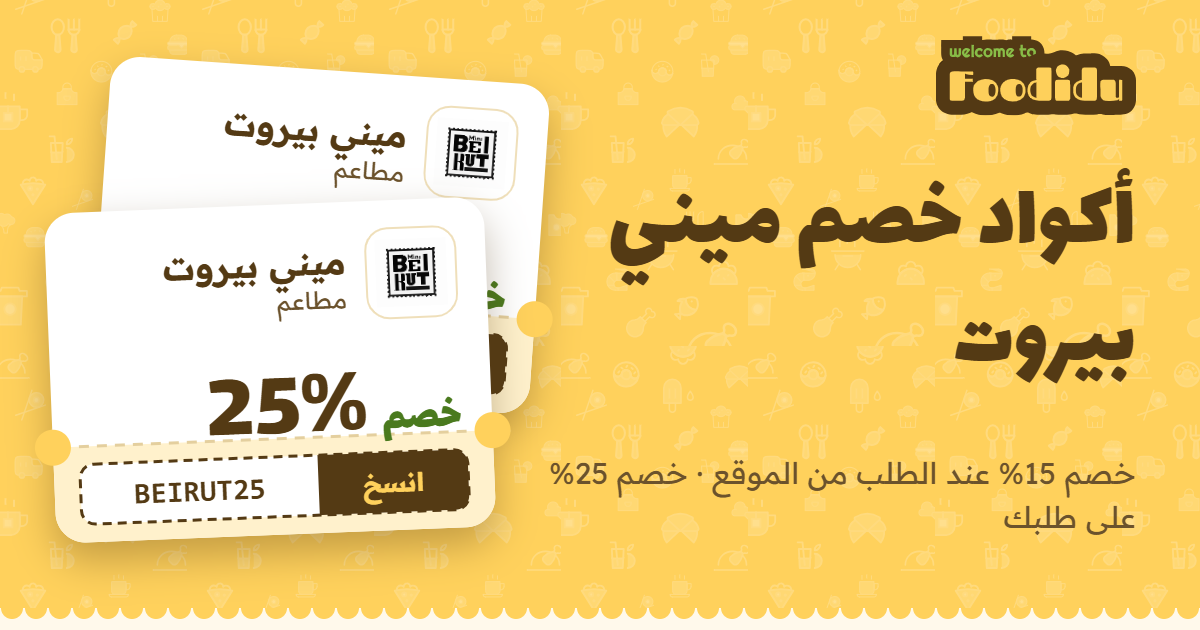
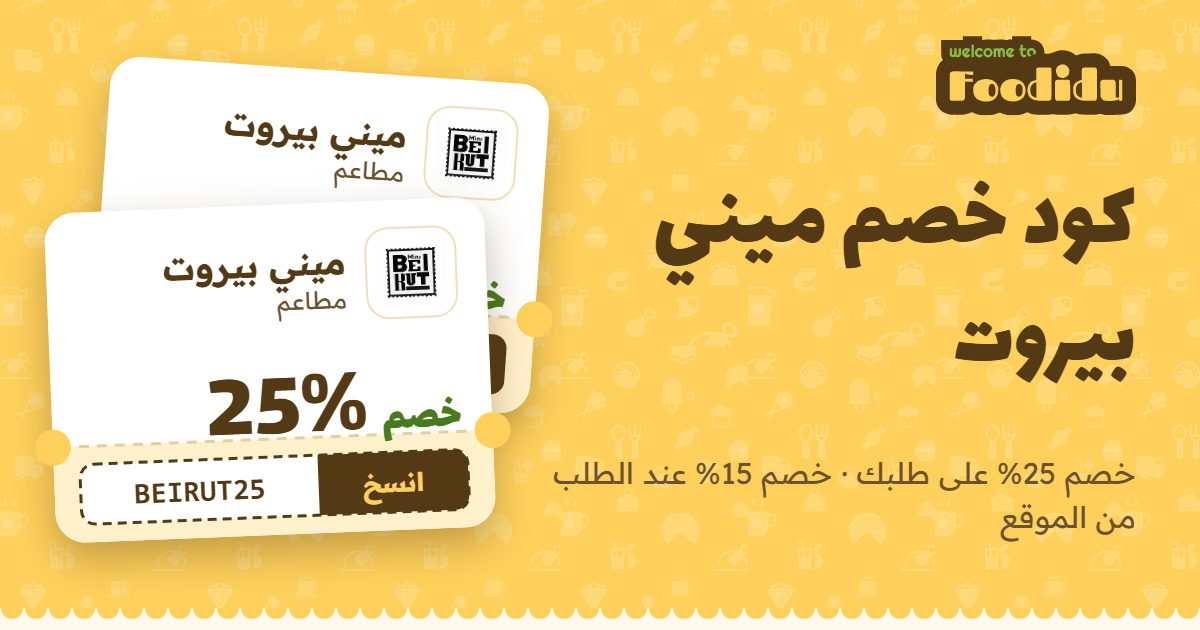
No-code offers instead of placeholder codes: My Buffalo, Just Smash, Mini Beirut
APPONLY, AUTO10 and AUTO15 were never real codes (the old site flagged them as
automatic or app-only). My Buffalo becomes a no-code offer with its own steps.
Just Smash and Mini Beirut keep their real code (SMASH15, BEIRUT25) as the main
one, and the automatic discount becomes an extra offer with "noCode": true.

- build: extra offers can be no-code; the brand page counts codes and offers
  apart (h1, FAQ, steps); a no-code offer without a brand link shows a plain
  "no code needed" tag instead of a broken link
- dashboard: "عرض من غير كود" checkbox on extra codes; a no-code brand no
  longer needs a link
- share images: a no-code extra is drawn as a "no code needed" ticket, behind
  the real code

Changed region(s): [[0.4933, 0.2714, 0.9558, 0.4524], [0.4625, 0.7238, 0.8633, 0.7841], [0.8325, 0.8143, 0.9558, 0.8746]]

diff --git a/static/js/admin.js b/static/js/admin.js
@@ -351,7 +351,7 @@ window.FoodiduAdmin = (() => {
       key: keyField(isNew), slug: slugField(isNew, "KFC-PromoCode"),
       name: bi("اسم البراند", { req: true }),
       code: text("الكود", { dir: "ltr", pattern: /^\S+$/, patternMsg: "من غير مسافات", hint: "فاضي لو الخصم من غير كود." }),
-      noCode: check("خصم من غير كود", "الخصم بيتطبق لوحده من موقع أو تطبيق البراند. التذكرة هتفتح لينك البراند بدل ما تنسخ كود، فلازم تكتب اللينك."),
+      noCode: check("خصم من غير كود", "الخصم بيتطبق لوحده من موقع أو تطبيق البراند. لو كتبت لينك البراند التذكرة هتفتحه، ولو مفيش لينك هيظهر \"بدون كود\" بس."),
       category: select("النوع", Object.entries(S.data.brands.categories).map(([k, v]) => [k, v.ar])), region: regions(),
       regionLabel: bi("اسم المنطقة بطريقتك (اختياري)", { hint: "لو عايز يظهر مثلاً \"مصر والسعودية\" بدل اختيار المنطقة." }),
       exclusive: check("كود حصري لـ Foodidu", "بيظهر عليه \"حصري\"."), firstOrder: check("لأول طلب بس", "بيظهر كمان في صفحة أكواد خصم أول طلب."), featured: check("في \"أقوى الأكواد\"", "بيظهر في قسم أقوى الأكواد في الصفحة الرئيسية."),
@@ -360,7 +360,7 @@ window.FoodiduAdmin = (() => {
       lastVerified: date("آخر مرة جربنا فيها الكود بنفسنا", { today: true, hint: "لو فاضي، الكود بيظهر من غير \"اتحقق منه\"." }),
       badge: badge("الخصم على التذكرة"), offer: bi("العرض في سطر", { req: true, hint: "زي: خصم 30% على أول طلب بحد أقصى 150 جنيه" }),
       terms: bi("الشروط", { req: true, area: true }), where: bi("بيتستخدم فين", { req: true, hint: "زي: تطبيق رابيت" }),
-      moreCodes: list("أكواد تانية لنفس البراند (اختياري)", () => group({ code: text("الكود", { req: true, dir: "ltr", pattern: /^\S+$/, patternMsg: "من غير مسافات" }), badge: badge("الخصم على التذكرة"), offer: bi("العرض في سطر", { req: true }), terms: bi("الشروط", { req: true, area: true }), exclusive: check("حصري"), firstOrder: check("لأول طلب بس"), lastVerified: date("آخر مرة جربنا الكود ده بنفسنا", { today: true, hint: "لو فاضي، الكود ده بيظهر من غير \"اتحقق منه\"." }) }), { item: "كود", add: "كود تاني" }),
+      moreCodes: list("أكواد تانية لنفس البراند (اختياري)", () => group({ code: text("الكود", { dir: "ltr", pattern: /^\S+$/, patternMsg: "من غير مسافات", hint: "فاضي لو العرض من غير كود." }), noCode: check("عرض من غير كود", "بيتطبق لوحده. بيظهر عليه \"بدون كود\" بدل زرار النسخ."), badge: badge("الخصم على التذكرة"), offer: bi("العرض في سطر", { req: true }), terms: bi("الشروط", { req: true, area: true }), exclusive: check("حصري"), firstOrder: check("لأول طلب بس"), lastVerified: date("آخر مرة جربنا الكود ده بنفسنا", { today: true, hint: "لو فاضي، الكود ده بيظهر من غير \"اتحقق منه\"." }) }), { item: "كود", add: "كود تاني" }),
       about: bi("عن البراند", { req: true, area: true, hint: "جملتين عن البراند والكود. بيظهر في صفحة البراند." }), seo: seo()
     };
     idFields(isNew, "-PromoCode", f);
@@ -371,7 +371,7 @@ window.FoodiduAdmin = (() => {
       if (!confirm(`تشيل الكود ${f.code.get()}؟ الكود ${extras[0].code} هيبقى الكود الأساسي.`)) return;
       const [first, ...rest] = extras;
       f.code.set(first.code); f.badge.set(first.badge); f.offer.set(first.offer); f.terms.set(first.terms);
-      f.exclusive.set(first.exclusive); f.lastVerified.set(first.lastVerified || "");
+      f.exclusive.set(first.exclusive); f.firstOrder.set(first.firstOrder); f.lastVerified.set(first.lastVerified || "");
       f.moreCodes.set(rest);
       toast("اتشال. راجع عنوان ووصف جوجل و\"عن البراند\" لو فيهم الكود القديم، وبعدين احفظ.");
     }, "ghost sm danger");
@@ -489,12 +489,12 @@ window.FoodiduAdmin = (() => {
       const v = collect(f);
       if (b) {   // a removed code must not stay in the texts Google shows
         const now = new Set([v.code, ...v.moreCodes.map((m) => m.code)].map((c) => c.toLowerCase()));
-        const gone = [b.code, ...(b.moreCodes || []).map((m) => m.code)].filter((c) => !now.has(c.toLowerCase()));
+        const gone = [b.code, ...(b.moreCodes || []).map((m) => m.code)].filter((c) => c && !now.has(c.toLowerCase()));
         const texts = [["عنوان جوجل", v.seo.en.title + " " + v.seo.ar.title], ["وصف جوجل", v.seo.en.description + " " + v.seo.ar.description], ["عن البراند", v.about.en + " " + v.about.ar]];
         const stale = gone.flatMap((c) => texts.filter(([, t]) => new RegExp("(^|[^A-Za-z0-9])" + c.replace(/[.*+?^${}()|[\]\\]/g, "\\$&") + "($|[^A-Za-z0-9])", "i").test(t)).map(([n]) => `${n} لسه فيه الكود ${c} اللي اتشال. عدّله.`));
         if (stale.length) throw new Error(stale.join(" "));
       }
-      v.moreCodes = v.moreCodes.map((m) => { if (!m.exclusive) delete m.exclusive; if (!m.firstOrder) delete m.firstOrder; if ((m.lastVerified || "") === (v.lastVerified || "")) delete m.lastVerified; return m; });
+      v.moreCodes = v.moreCodes.map((m) => { if (!m.exclusive) delete m.exclusive; if (!m.firstOrder) delete m.firstOrder; if (m.noCode) m.code = ""; else delete m.noCode; if ((m.lastVerified || "") === (v.lastVerified || "")) delete m.lastVerified; return m; });
       const noCode = v.noCode, firstOrder = v.firstOrder;
       clean(v);
       delete v.noCode; delete v.firstOrder;
@@ -514,7 +514,7 @@ window.FoodiduAdmin = (() => {
     }, { top: logoF.node, images: true, check: () => [
       ...(!cur.logo && !logoF.changed() ? ["اللوجو: ارفع صورة"] : []),
       ...(!f.noCode.get() && !f.code.get() ? ["الكود: مطلوب (أو علّم \"خصم من غير كود\")"] : []),
-      ...(f.noCode.get() && !f.url.get() ? ["لينك موقع أو تطبيق البراند: مطلوب للخصم من غير كود"] : []),
+      ...(f.moreCodes.get().some((m) => !m.noCode && !m.code) ? ["الأكواد التانية: الكود مطلوب (أو علّم \"عرض من غير كود\")"] : []),
       ...(f.noCode.get() && f.moreCodes.get().length ? ["الخصم من غير كود ما ينفعش يكون معاه أكواد تانية"] : []),
     ] });
   }
@@ -614,7 +614,7 @@ window.FoodiduAdmin = (() => {
     let body;
     if (S.view) body = S.view();
     else if (S.tab === "brands") body = el("div", null, el("p", { class: "adm-add" }, btn("+ كود جديد", open(() => brandEditor(null)))),
-      tableOf([["البراند", (b) => b.name.ar], ["الكود", (b) => (b.noCode ? "بدون كود" : el("code", { text: [b.code, ...(b.moreCodes || []).map((m) => m.code)].join(" · ") }))], ["العرض", (b) => b.offer.ar],
+      tableOf([["البراند", (b) => b.name.ar], ["الكود", (b) => (b.noCode ? "بدون كود" : el("code", { text: [b.code, ...(b.moreCodes || []).map((m) => m.code || "بدون كود")].join(" · ") }))], ["العرض", (b) => b.offer.ar],
         ["آخر تجربة", (b) => b.lastVerified || "ما اتجربش", "adm-date"], ["الترتيب", (b) => ({ top: "أولوية أولى", low: "في الآخر" })[b.priority] || "عادي"]],
       siteOrder(), (b) => [btn("↑", () => move(b, -1), "ghost sm"), btn("↓", () => move(b, 1), "ghost sm"), btn("تعديل", open(() => brandEditor(b.key)), "ghost sm"),
         b.lastVerified !== today() || (b.moreCodes || []).some((m) => "lastVerified" in m) ? btn(b.moreCodes && b.moreCodes.length ? "جربت أكوادها النهارده" : "جربته النهارده", () => { b.lastVerified = today(); (b.moreCodes || []).forEach((m) => { delete m.lastVerified; }); change("brands", `Checked ${b.name.en} today`); render(); }, "ghost sm") : null,

diff --git a/static/js/art.js b/static/js/art.js
@@ -70,7 +70,7 @@ function ticketArt(ctx, b, lang, logo, x, y, w, rot) {
 
 // ---------- Open Graph share images (1200x630): tools/assets.html and the dashboard draw them the same way ----------
 function brandOgCopy(b, lang) {
-  const many = !!(b.moreCodes && b.moreCodes.length);
+  const many = [b, ...(b.moreCodes || [])].filter((x) => !x.noCode).length > 1;
   const title = b.noCode ? (lang === "ar" ? `عرض خصم ${b.name.ar}` : `${b.name.en} discount`)
     : lang === "ar" ? `${many ? "أكواد خصم" : "كود خصم"} ${b.name.ar}` : `${b.name.en} promo ${many ? "codes" : "code"}`;
   return [title, [b.offer[lang], ...(b.moreCodes || []).map((x) => x.offer[lang])].join(" · ")];
@@ -89,7 +89,8 @@ function ogJobs(e, kind) {
       return { lang, file: `${e.key}-${lang}`, text, items: [{ ...e, badge, tag: lang === "ar" ? `وفّر حتى ${save}%` : `Save up to ${save}%` }] };
     }
     if (e.noCode) return { lang, file: `${e.key}-${lang}`, text: brandOgCopy(e, lang), items: [{ ...e, tag: lang === "ar" ? "بدون كود" : "No code needed" }] };
-    return { lang, file: `${e.key}-${lang}`, text: brandOgCopy(e, lang), items: [e, ...(e.moreCodes || []).map((x) => ({ ...e, code: x.code, badge: x.badge }))] };
+    return { lang, file: `${e.key}-${lang}`, text: brandOgCopy(e, lang), items: [e, ...(e.moreCodes || []).map((x) => ({ ...e, code: x.code, badge: x.badge, ...(x.noCode ? { tag: lang === "ar" ? "بدون كود" : "No code needed" } : {}) }))]
+      .sort((x, y) => !!y.tag - !!x.tag) };   // the last ticket is drawn in front: a real code goes there
   });
 }
 // Share images for the section pages (home, all codes, partners, day deals): Pizza Hut and KFC tickets (or whichever is left).

diff --git a/static/css/site.css b/static/css/site.css
@@ -373,6 +373,8 @@ ul, ol { margin: 0; padding: 0; }
 }
 .code-btn:hover { transform: translateY(-1px); }
 .code-btn.nocode { text-decoration: none; }
+.code-btn.static, .code-btn.static:hover { transform: none; cursor: default; }
+.code-btn.static .code { flex: 1; justify-content: center; }
 .code-btn.nocode .code { font-family: var(--font-body); font-weight: 700; letter-spacing: 0; }
 .code-btn .code {
   display: inline-flex; align-items: center; padding: 0 12px; min-width: 0;
